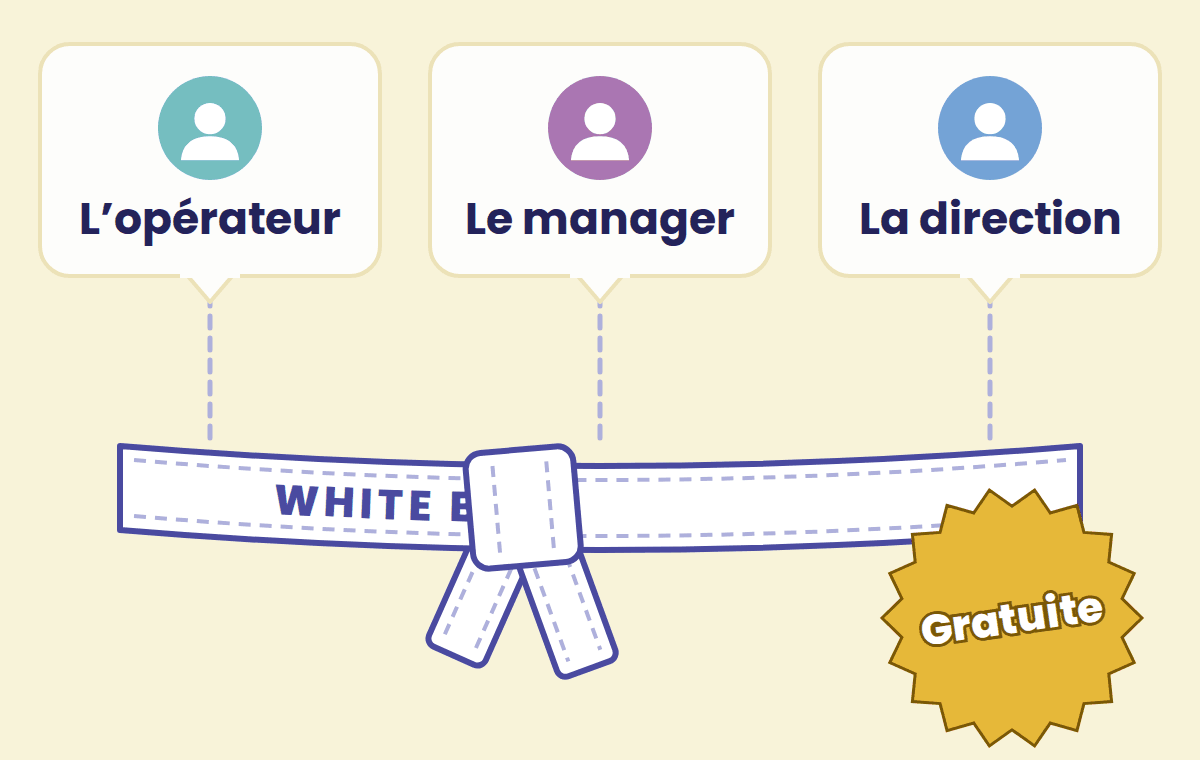
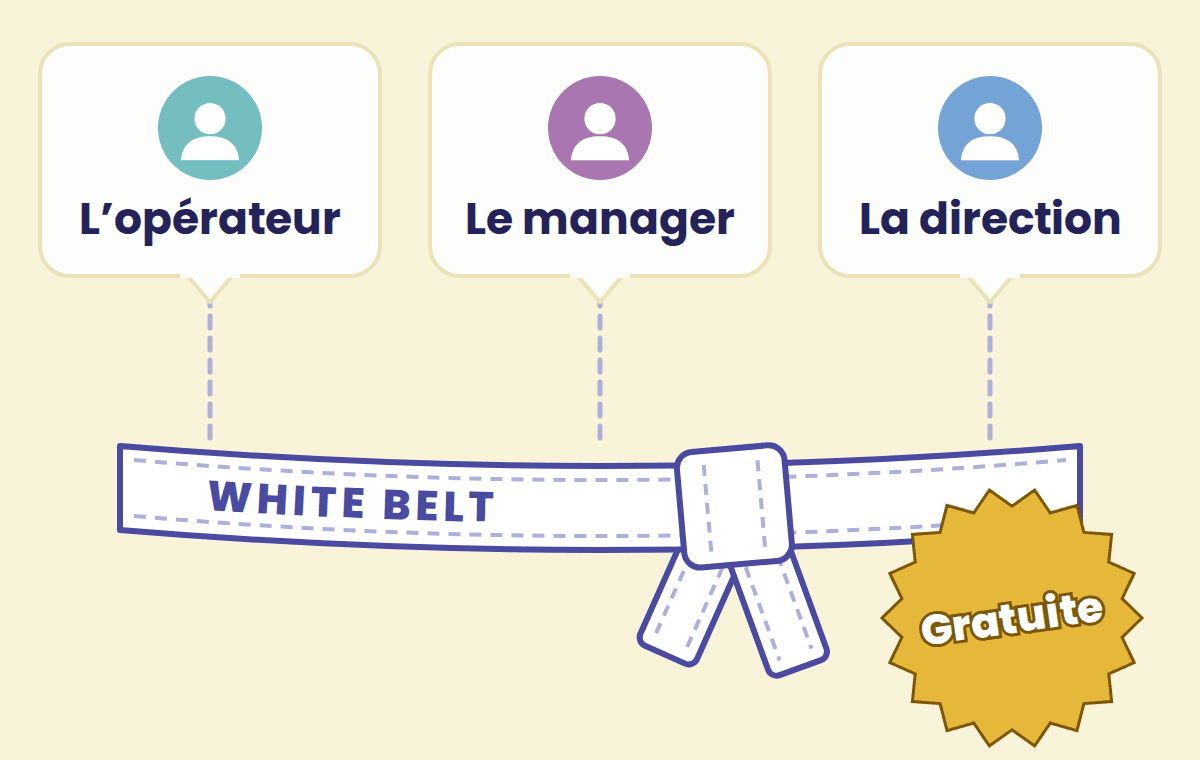
White Belt : illustrations des e-mails en cours de refonte (état intermédiaire)
Claude-Session: https://claude.ai/code/session_01UQYNmBxidRR9rgQ1sVAb8q

Changed region(s): [[0.1542, 0.575, 0.7092, 0.9079]]

diff --git a/brevo-white-belt/visuels/emails/src/e4-accompagnement.js b/brevo-white-belt/visuels/emails/src/e4-accompagnement.js
@@ -15,10 +15,12 @@ start(() => {
   { const cx = cols[1];
     el('path', {d: `M ${cx - 130} ${GY - 110} H ${cx + 130} M ${cx - 110} ${GY - 110} V ${GY - 4} M ${cx + 110} ${GY - 110} V ${GY - 4}`, stroke: C.blue, 'stroke-width': 9, 'stroke-linecap': 'round'});
     el('rect', {x: cx - 44, y: GY - 178, width: 88, height: 64, rx: 12, fill: C.blue}); el('circle', {cx, cy: GY - 146, r: 12, fill: C.white});
-    const r = 84, a0 = -0.35 * Math.PI, a1 = 1.15 * Math.PI, py = GY - 146, P = a => [cx + r * Math.cos(a), py + r * Math.sin(a)];
+    const r = 86, a0 = 0.11 * Math.PI, a1 = 0.89 * Math.PI, py = GY - 146, P = a => [cx + r * Math.cos(a), py + r * Math.sin(a)];
     const [sx, sy] = P(a0), [ex, ey] = P(a1);
     el('path', {d: `M ${sx} ${sy} A ${r} ${r} 0 1 0 ${ex} ${ey}`, stroke: C.yellow, 'stroke-width': 10, fill: 'none', 'stroke-linecap': 'round'});
-    el('path', {d: `M ${ex - 4} ${ey - 26} L ${ex} ${ey} L ${ex + 24} ${ey - 8}`, stroke: C.yellow, 'stroke-width': 10, fill: 'none', 'stroke-linecap': 'round', 'stroke-linejoin': 'round'}) }
+    const dx = Math.sin(a1), dy = -Math.cos(a1), hd = (t) => [ex - 26 * (dx * Math.cos(t) - dy * Math.sin(t)), ey - 26 * (dx * Math.sin(t) + dy * Math.cos(t))];
+    const [h1x, h1y] = hd(0.6), [h2x, h2y] = hd(-0.6);
+    el('path', {d: `M ${h1x} ${h1y} L ${ex} ${ey} L ${h2x} ${h2y}`, stroke: C.yellow, 'stroke-width': 10, fill: 'none', 'stroke-linecap': 'round', 'stroke-linejoin': 'round'}) }
   // 3. Réunion de crise : table et trois personnes, alerte
   { const cx = cols[2];
     [-90, 0, 90].forEach((dx, k) => person(cx + dx, GY - 148, 40, [C.turq, C.violet, C.lblue][k]));

diff --git a/brevo-white-belt/visuels/emails/src/e4-equipe.js b/brevo-white-belt/visuels/emails/src/e4-equipe.js
@@ -14,6 +14,6 @@ start(() => {
     person(cx, BY + 84, 52, col);
     const t = tx(S, cx, BY + 190, name, {size: 44, weight: 700, anchor: 'middle'}); fit(t, x + 14, x + BW - 14, name);
   });
-  belt({L, R, top: BT, th: 84, sag: 20, label: 'WHITE BELT', knot: 0.42, offset: '16%'});
+  belt({L, R, top: BT, th: 84, sag: 20, label: 'WHITE BELT', knot: 0.64, offset: '9%'});
   seal(1012, 618, 130, ['Gratuite'], {size: 42, rot: -8});
 });
